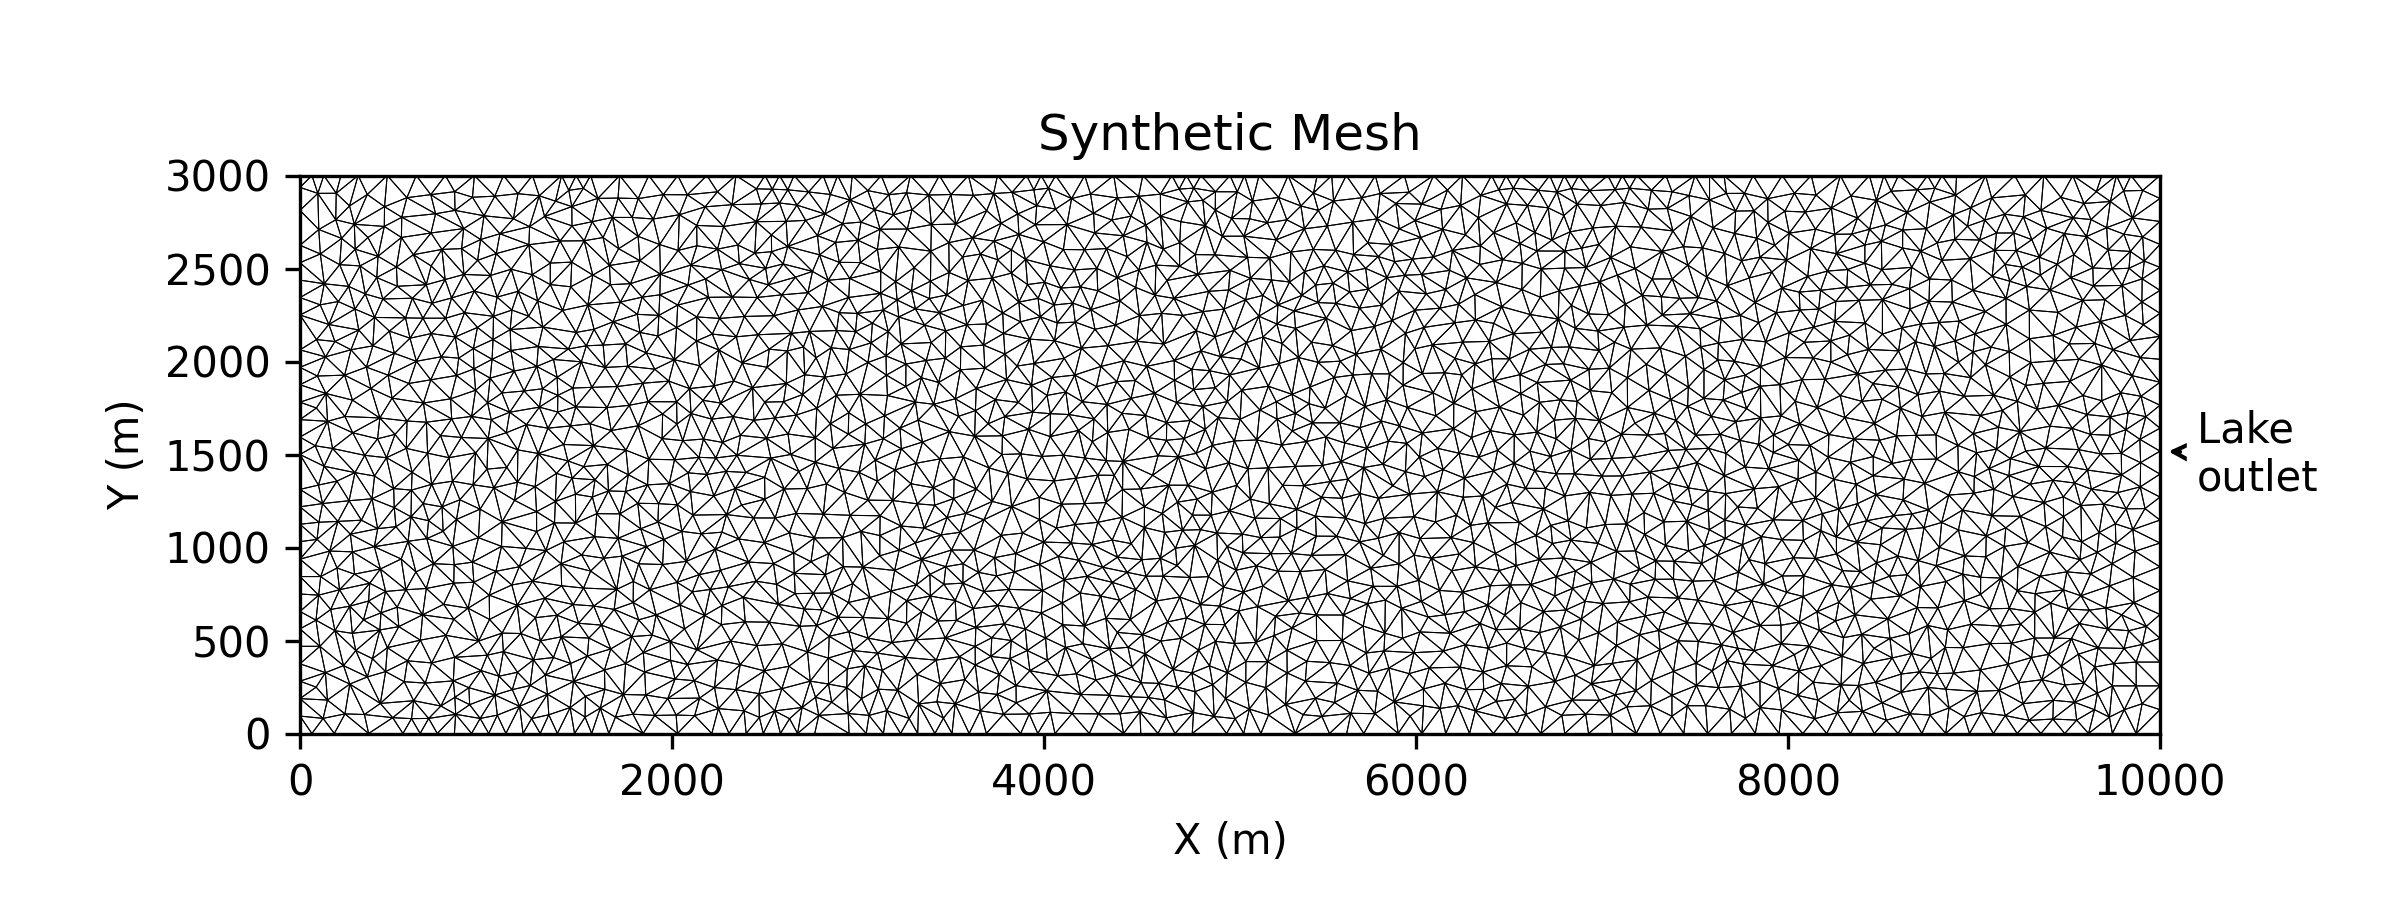
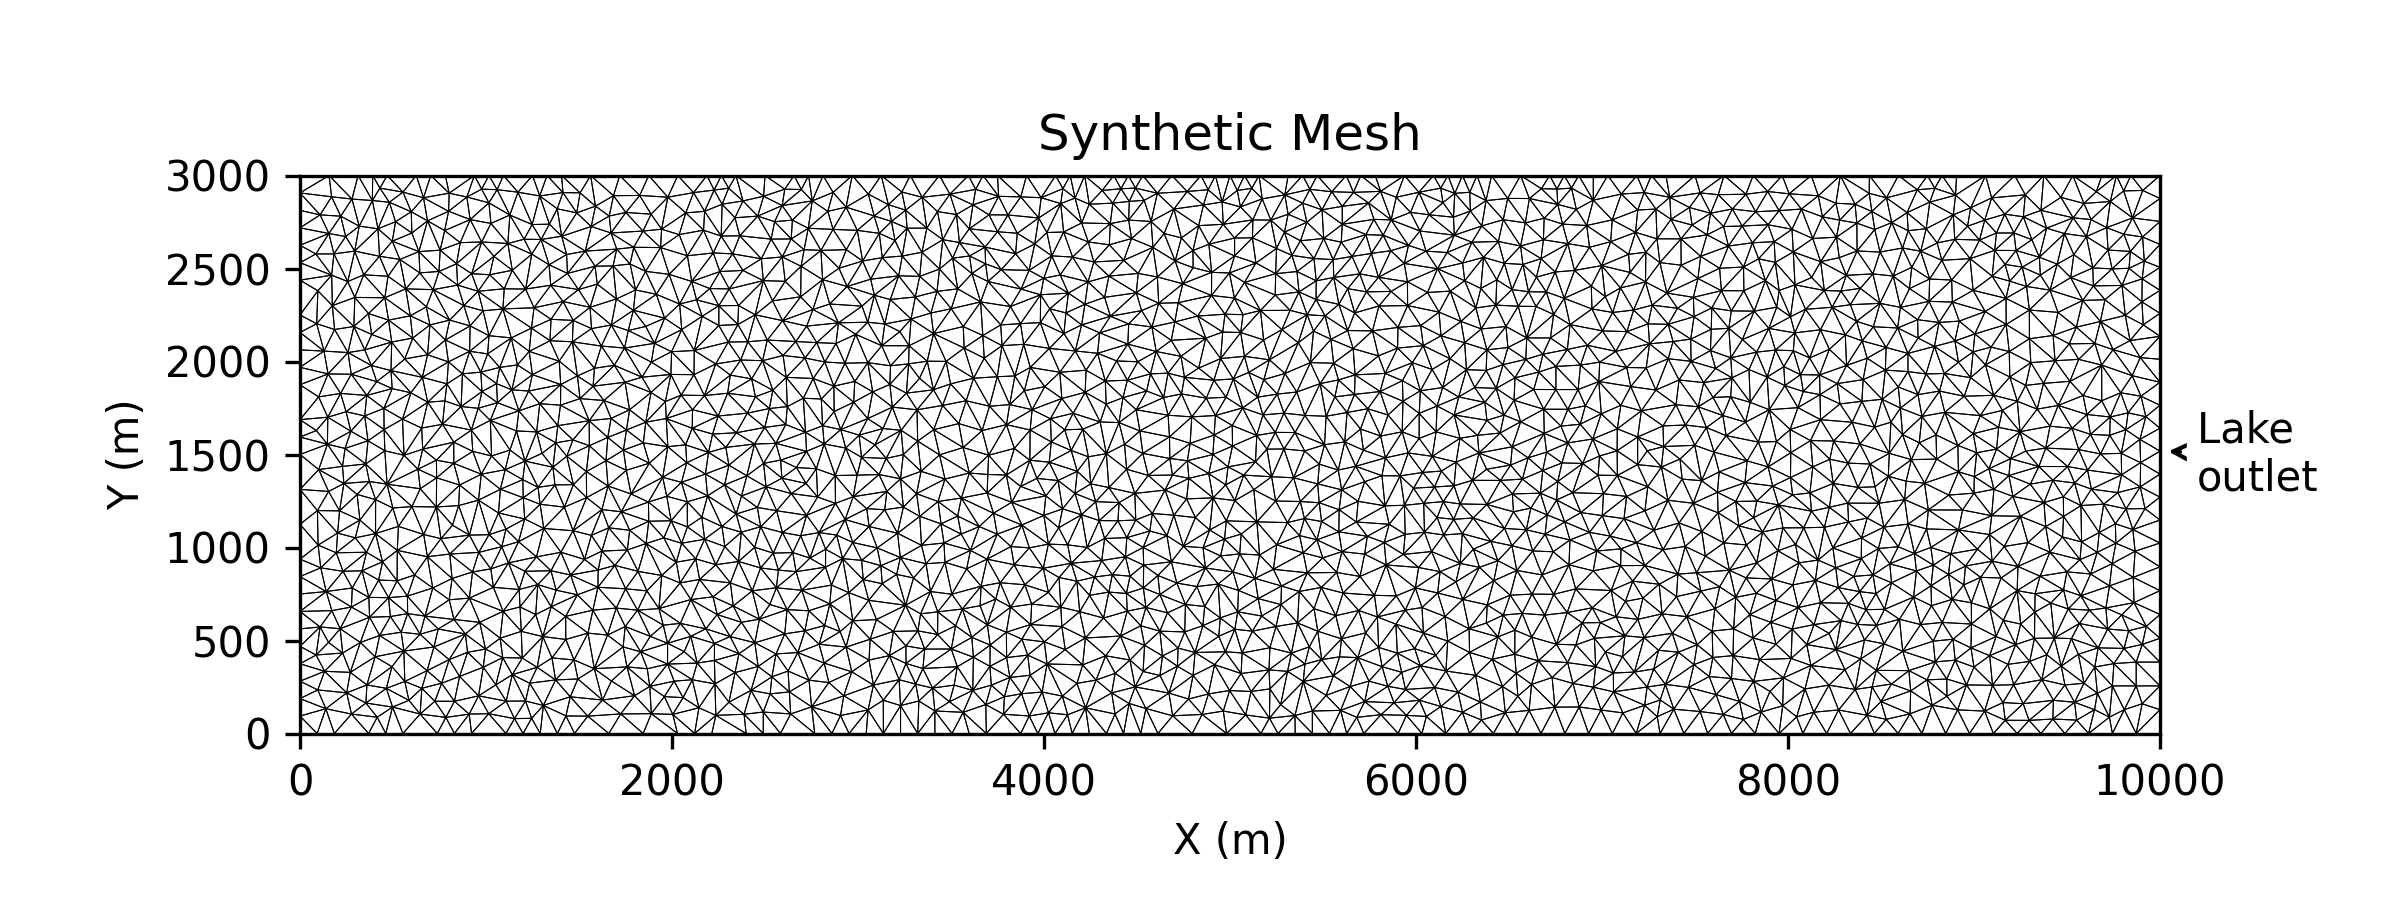
updated to IML-GlaDS

Changed region(s): [[0.125, 0.1867, 0.875, 0.8089]]

diff --git a/synthetic/default.py b/synthetic/default.py
@@ -9,8 +9,8 @@ ISSM_DIR = os.getenv('ISSM_DIR')
 sys.path.append(os.path.join(ISSM_DIR, 'src/m/dev/'))
 import devpath
 from issmversion import issmversion
-from hydrologyglads import hydrologyglads
-from ernie import ernie
+from hydrologyimlglads import hydrologyimlglads
+from generic import generic
 from paterson import *
 from solve import *
 from bcgslbjacobioptions import *
@@ -79,7 +79,7 @@ md.basalforcings.geothermalflux = (68./1000.) * onevec
 
 # Hydrology
 print('Setting up hydrology')
-md.hydrology = hydrologyglads()
+md.hydrology = hydrologyimlglads()
 # parameters
 md.hydrology.sheet_conductivity = 0.05*onevec
 md.hydrology.sheet_alpha = 5./4.
@@ -129,8 +129,8 @@ md.hydrology.spcphi[pos] = 5.e4
 # Initialization
 phi_bed = md.constants.g * md.materials.rho_freshwater * md.geometry.bed
 p_ice = md.constants.g * md.materials.rho_ice * md.geometry.thickness
-md.initialization.lake_depth = 0. * onevec
-md.initialization.lake_depth[lakepos] = 30.  # m
+md.initialization.lake_height = 0. * onevec
+md.initialization.lake_height[lakepos] = 30.  # m
 md.initialization.lake_outletQr = 0. * onevec
 md.initialization.lake_channelQr = 0. * onevec
 md.initialization.watercolumn = 0.5 * md.hydrology.bump_height
@@ -155,7 +155,7 @@ md.hydrology.requested_outputs = [
 ]
 
 # Timestepping
-nyears = 15 # years
+nyears = 1.5 # years
 hour = 3600 # seconds
 day = 86400 # seconds
 dt_hours = 30/60
@@ -168,7 +168,7 @@ md.transient.deactivateall()
 md.transient.ishydrology = True
 md.transient.isstressbalance = True
 # Execution path
-md.cluster = ernie('name',socket.gethostname(),'np', 22)
+md.cluster = generic('name',socket.gethostname(),'np', 8)
 cwd = os.getcwd()
 expath = os.path.join(cwd, 'TMP/')
 if not os.path.exists(expath):
@@ -176,10 +176,10 @@ if not os.path.exists(expath):
 md.cluster.executionpath = expath
 print(md.cluster.executionpath)
 # Solver
-md.stressbalance.maxiter = 50
-md.stressbalance.abstol = np.nan
-md.stressbalance.reltol = np.nan
-md.stressbalance.restol = 1.e-3
+md.hydrology.maxiter = 50
+md.hydrology.abstol = np.nan
+md.hydrology.reltol = np.nan
+md.hydrology.restol = 1.e-3
 md.debug.gprof = 0
 md.debug.profiling = 1
 md.toolkits.DefaultAnalysis = bcgslbjacobioptions()

diff --git a/src/run_job.py b/src/run_job.py
@@ -33,7 +33,7 @@ from issmversion import issmversion
 
 from model import model
 from meshconvert import meshconvert
-from hydrologyglads import *
+from hydrologyimlglads import *
 from SetIceSheetBC import SetIceSheetBC
 from setflowequation import setflowequation
 from setmask import setmask

diff --git a/readme.md b/readme.md
@@ -28,7 +28,7 @@ Department of Geography, Durham University, Durham, UK
 School of Earth and Environmental Sciences, Cardiff University, Cardiff, UK
 
 <sup>8</sup>
-Department of Geography and Environmental Management, University of Waterloo, Waterlo
+Department of Geography and Environmental Management, University of Waterloo, Waterloo
 
 <sup>9</sup>
 Department of Natural and Built Environment, Sheffield Hallam University, Sheffield, UK
@@ -45,7 +45,12 @@ The `src/` folder contains code and utilities necessary to run a job, read the j
 
 The `manuscript/` folder contains the paper material (final figures, and `.tex` files)
 
-Note, this does require an ISSM install with the necessary modifications to add ice-marginal lakes, which is available [here](https://dx.doi.org/10.5281/zenodo.20269306). Please also note that the Zenodo material is reviewer-embargoed but is available upon reasonable request. Once the paper is accepted, all data will be made publicly accessible.
+Note, this does require an ISSM install with the necessary modifications to add ice-marginal lakes. There are two options for this: 
+
+1. A static version of the ISSM code used in our modelling is available [here](https://dx.doi.org/10.5281/zenodo.20269306). If using this version of ISSM, the relevant class can be called using `md.hydrology = hydrologyglads`. 
+
+2. However, we have now merged our code with the current version of ISSM available [here](https://github.com/ISSMteam/ISSM). We strongly recommend the use of this version over the static code, as it restores a version of GlaDS with no lake capability, and instead adds a new hydrology class called IML-GlaDS which can be called using `md.hydrology = hydrologyimlglads`. The repository has been updated to reflect this preference.
+
 
 ## Package install
 We suggest running this as an editable pip package.

diff --git a/synthetic/readme.md b/synthetic/readme.md
@@ -6,7 +6,7 @@ This subdirectory contains the material necessary to run and analyse the synthet
 
 `default.py` contains the generic properties used to setup each of the sensitivity test model runs, and should be modified to adjust the number of cores your machine has.
 
-E.g., `md.cluster = ernie('name',socket.gethostname(),'np', 22)` should become: `md.cluster = generic('name',socket.gethostname(),'np',8)` if your machine has 8 cores. 
+E.g., `md.cluster = generic('name',socket.gethostname(),'np', 8)` should become: `md.cluster = generic('name',socket.gethostname(),'np',4)` if your machine has 4 cores. 
 
 ### `data/`
  This contains the geometry file (`square_domain.exp`) and scripts (`make_mesh.py`,`make_surface_bed.py`) necessary to generate a model geometry. Running the scripts by:
